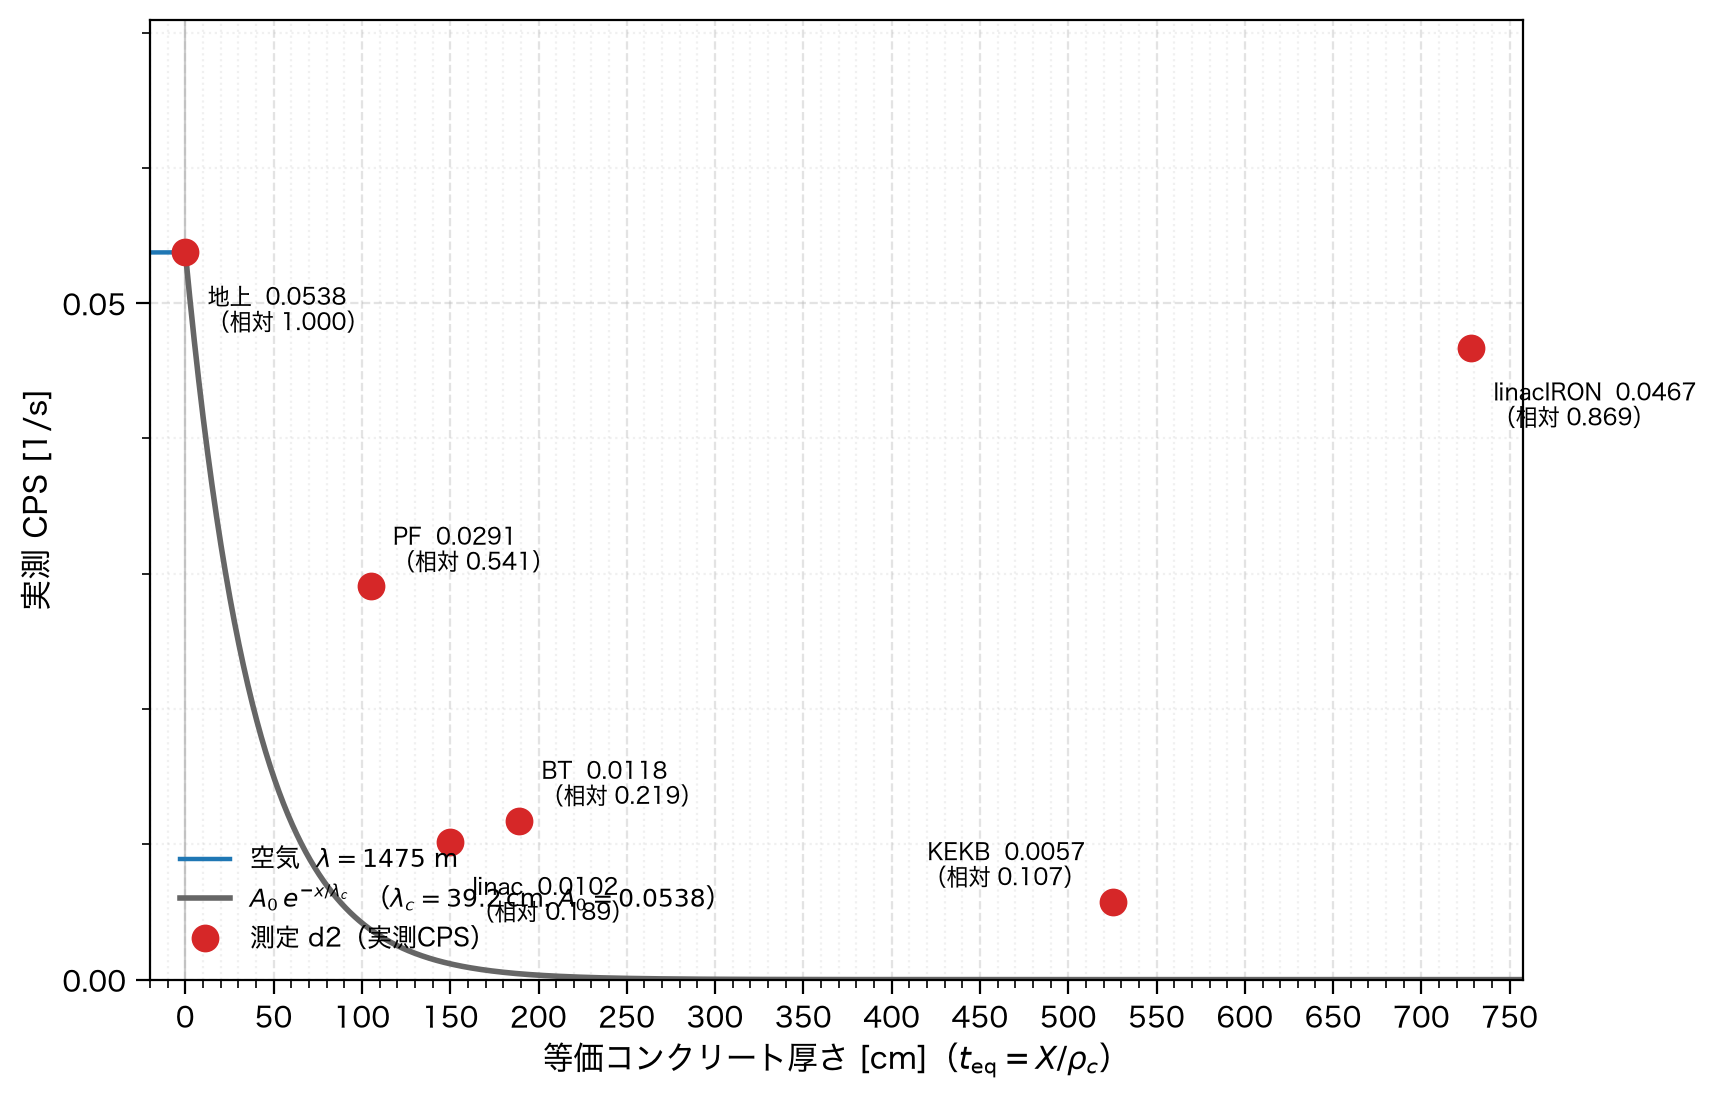
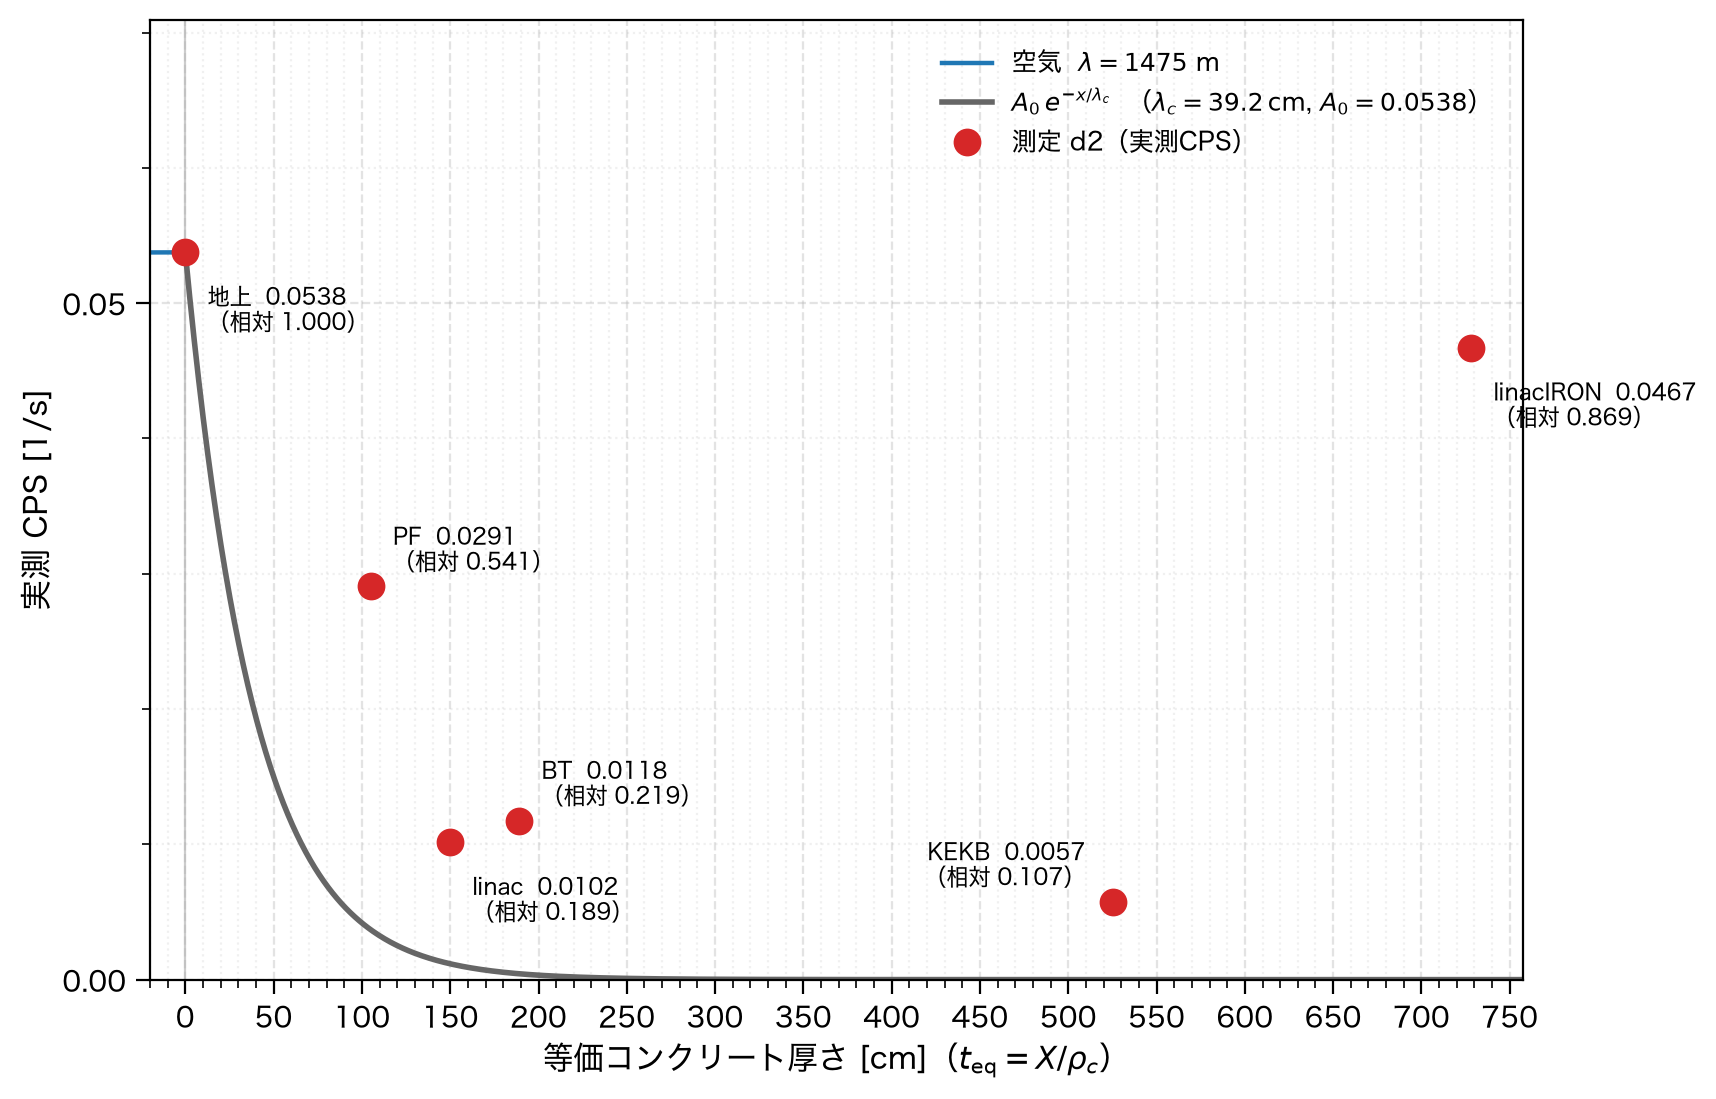
fix: 等価コンクリート図の凡例を線形は右上・片対数は左下に配置
データ曲線との重なりを減らすため再生成した図も合わせて更新する。

diff --git a/03_今年度用/_plot_mca.py b/03_今年度用/_plot_mca.py
@@ -699,11 +699,11 @@ EQUIV_Y_PAD_LINEAR = 1.32  # ylim 上端 = max(data, A0) × この値
 EQUIV_Y_PAD_LOGY = 4.0  # log ylim 上端 = max(data, A0) × この値
 
 
-def _equiv_legend(ax, fontsize: float = 9) -> None:
-    """凡例をグラフ内左下に置く（データ点・注釈との重なりを避ける）。"""
+def _equiv_legend(ax, fontsize: float = 9, *, logy: bool = False) -> None:
+    """凡例位置: 線形は右上、片対数は左下（曲線・注釈との重なり回避）。"""
     ax.legend(
         frameon=False,
-        loc="lower left",
+        loc="lower left" if logy else "upper right",
         fontsize=fontsize,
         borderaxespad=0.8,
     )
@@ -1293,7 +1293,7 @@ def fig_all_sites_equiv_concrete(
     ax.tick_params(which="major", direction="out", length=5)
     ax.tick_params(which="minor", direction="out", length=3)
     ax.set_xlabel(r"等価コンクリート厚さ [cm]（$t_{\mathrm{eq}}=X/\rho_c$）")
-    _equiv_legend(ax, fontsize=9)
+    _equiv_legend(ax, fontsize=9, logy=logy)
     save(fig, out_name, bbox_inches="none")
     print(f"figure: {out_name}.png")
     if not absolute and not logy:
@@ -1606,7 +1606,7 @@ def fig_all_sites_equiv_concrete_errorbars(
     ax.tick_params(which="major", direction="out", length=5)
     ax.tick_params(which="minor", direction="out", length=3)
     ax.set_xlabel(r"等価コンクリート厚さ [cm]（$t_{\mathrm{eq}}=X/\rho_c$）")
-    _equiv_legend(ax, fontsize=9)
+    _equiv_legend(ax, fontsize=9, logy=logy)
     save(fig, out_name, bbox_inches="none")
     print(f"figure: {out_name}.png")
     if not absolute and not logy:
@@ -1751,7 +1751,7 @@ def fig_all_sites_equiv_concrete_detectors_compare(logy: bool = False) -> None:
         ax.grid(True, which="minor", alpha=0.18, linestyle=":")
     ax.xaxis.set_major_locator(MultipleLocator(50))
     ax.xaxis.set_minor_locator(MultipleLocator(10))
-    _equiv_legend(ax, fontsize=8)
+    _equiv_legend(ax, fontsize=8, logy=logy)
     save(fig, out_name, bbox_inches="none")
     print(f"figure: {out_name}.png")
 
